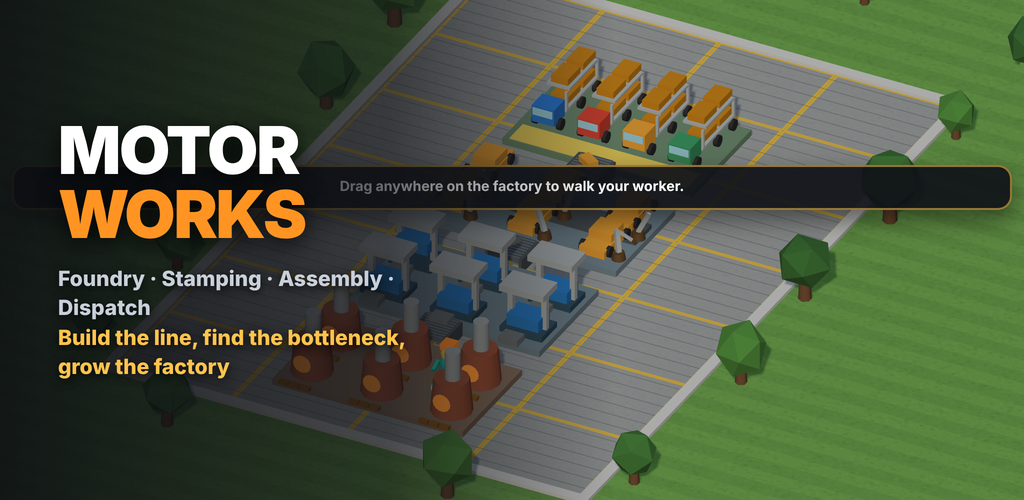
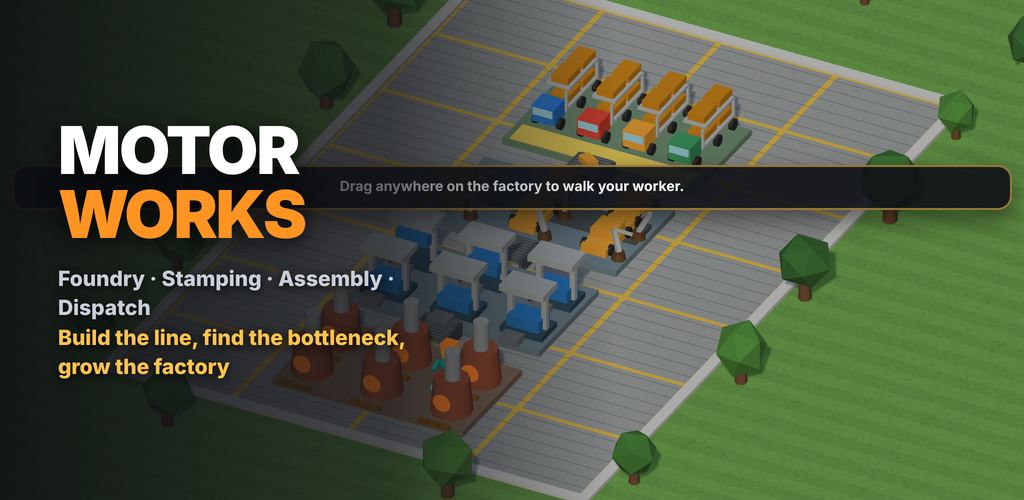
Motor Works: the top two vehicle tiers were unreachable
The panel promises "Sports: all at lv 220" and "Luxury: all at lv 400".
Three hours of simulated play across six prestiges never delivered
either: the run ended at Pickup every time, with levels crawling from
173 to 237 and income flat from minute 20 onward.

Two causes, both measured.

The tier gate reads the weakest station. The game's guidance points at
the bottleneck. They are not the same station, and the gap is a manager
perk: Derya's +25% foundry speed keeps the Foundry off the bottleneck
even 37 levels behind (16000/s against 15168/s). A player doing exactly
what the game says never upgrades it, so it pins at 200 and the gate
never opens. Two of five vehicle models, carrying the x34 and x115 price
multipliers, were dead content.

So the panel now names the station holding the next tier back, in the
product tag ("Sports: Foundry at lv 220") and on that station's own row
("HOLDING BACK Sports"). It appears only when there is something to act
on: not when every station is behind, not when the station is already
marked BOTTLENECK, and not at the top tier.

The hint alone was not enough — measured, it moved the weakest station
from 200 to 216 over four prestiges, still short of 220. The thresholds
themselves were set without reference to the curve, so they are now set
from it: Sports at 175 and Luxury at 240, where the earlier 110 and 45
already sat. All five tiers are reachable, and the top one is what the
[…]

diff --git a/tycoon/index.html b/tycoon/index.html
@@ -664,6 +664,8 @@ const METIN = {
   pr3: ['Sports', 'Spor'],
   pr4: ['Luxury', 'Lüks'],
   nextTier: [' · <b>{0}</b>: all at lv {1}', ' · <b>{0}</b>: hepsi {1}. seviyede'],
+  nextTierOne: [' · <b>{0}</b>: {1} at lv {2}', ' · <b>{0}</b>: {1} {2}. seviyede'],
+  tierHold:    ['<u>HOLDING BACK {0}</u>', '<u>{0} BEKLİYOR</u>'],
   topTier:  [' · top tier', ' · en üst kademe'],
 };
 
@@ -922,8 +924,8 @@ const PRODUCTS = [
   { name: 'City', nameT: 'pr0',     at: 0,   mult: 1,   body: '#3f7de0', roof: '#356ec9', big: 1.00 },
   { name: 'SUV', nameT: 'pr1',      at: 45,  mult: 3.2, body: '#3f9a6a', roof: '#33805a', big: 1.14 },
   { name: 'Pickup', nameT: 'pr2',   at: 110, mult: 10,  body: '#e8a33a', roof: '#c9861e', big: 1.26 },
-  { name: 'Sports', nameT: 'pr3',   at: 220, mult: 34,  body: '#d9483a', roof: '#b93a2e', big: 1.08 },
-  { name: 'Luxury', nameT: 'pr4',   at: 400, mult: 115, body: '#8a52d0', roof: '#7343b3', big: 1.18 },
+  { name: 'Sports', nameT: 'pr3',   at: 175, mult: 34,  body: '#d9483a', roof: '#b93a2e', big: 1.08 },
+  { name: 'Luxury', nameT: 'pr4',   at: 240, mult: 115, body: '#8a52d0', roof: '#7343b3', big: 1.18 },
 ];
 const productTier = () => {
   const weakest = Math.min(...G.lvl);
@@ -932,6 +934,22 @@ const productTier = () => {
   return t;
 };
 const product = () => PRODUCTS[productTier()];
+// Bir sonraki kademeyi hangi istasyonlar tutuyor?
+//
+// Kademe kapısı **en zayıf** istasyona bakıyor, oyunun yönlendirmesi ise
+// darboğaza. İkisi aynı istasyon olmak zorunda değil ve ölçüldü
+// (üç saatlik oyun, altı şube devri): Derya'nın +%25 döküm hızı yeteneği
+// Dökümü 37 seviye geride olmasına rağmen darboğaz olmaktan çıkarıyor,
+// oyuncu hiç yükseltmiyor, Döküm 200'de çakılıyor ve Sports (220) ile
+// Luxury (400) kademeleri **hiç açılmıyor**. Beş araç modelinden ikisi,
+// ×34 ve ×115 çarpanlarıyla birlikte, ölü içerikti.
+//
+// Ekran artık kapıyı tutan istasyonu adıyla söylüyor.
+const tierHolders = () => {
+  const nx = nextProduct();
+  if (!nx) return [];
+  return G.lvl.map((l, i) => (l < nx.at ? i : -1)).filter(i => i >= 0);
+};
 const nextProduct = () => PRODUCTS[productTier() + 1] || null;
 // `paidMult()` satın alınan çifte gelir. Burada çarpılıyor, `rateOf`'ta
 // değil: hız darboğaza ve tampon doluluğuna giriyor, para yalnızca
@@ -2623,6 +2641,7 @@ function buyManager(i) {
 
 function refreshPanel() {
   const ch = chain();
+  const tutanlar = tierHolders();
   for (let i = 0; i < STATIONS.length; i++) {
     const s = STATIONS[i], r = rows[i];
     const n = buyCount(i);
@@ -2652,6 +2671,12 @@ function refreshPanel() {
     // the instruction and it is the one line that is not worth acting on:
     // levelling a station whose output has nowhere to go buys nothing.
     if (nxt && !blocked) bits.push(T('x2at', nxt));
+    // Kademeyi tutan istasyon: darboğaz değilse oyuncunun onu
+    // yükseltmesi için hiçbir sebebi yok ve kapı orada kilitli kalıyor.
+    // Sebep buraya yazılıyor.
+    if (tutanlar.length && tutanlar.length < STATIONS.length &&
+        tutanlar.includes(i) && i !== ch.neck && !blocked)
+      bits.push(T('tierHold', T(nextProduct().nameT)));
     r.meta.innerHTML = bits.join(' · ');
     if (i < LAST) {
       const p = Math.min(100, (G.buf[i] / roomOf(i)) * 100);
@@ -2699,8 +2724,12 @@ function refreshPanel() {
   $('rate').textContent = fmt(olculenHiz) + ' ' + T('perSec');
   $('branchPill').textContent = '🏭 ' + (G.branches + 1);
   const nx = nextProduct();
+  const tut = tierHolders();
   $('prodTag').innerHTML = `🚗 ${T(product().nameT)}` +
-    (nx ? T('nextTier', T(nx.nameT), nx.at) : T('topTier'));
+    (nx ? (tut.length === 1
+            ? T('nextTierOne', T(nx.nameT), T(STATIONS[tut[0]].nameT), nx.at)
+            : T('nextTier', T(nx.nameT), nx.at))
+        : T('topTier'));
 }
 
 // ---------------------------------------------------------------------
@@ -4028,6 +4057,15 @@ window.jeMusBelir = () => { musSayac = 0; return musBelir(); };
 // gidişinde sahneden çıkıyor; sayı yirmi müşteri sonunda da aynı
 // kalmalı. Göz bunu fark etmiyor, sayı fark ediyor.
 window.jeSahne = () => scene.children.length;
+// Kademe kapısı: şu anki kademe, sonraki ve onu tutan istasyonlar.
+// Ekrandaki uyarı da bu listeden çiziliyor, yani ölçüm oyuncunun
+// gördüğü şeyi okuyor.
+window.jeTier = () => {
+  const nx = nextProduct();
+  return { kademe: productTier(), ad: T(product().nameT),
+           sonraki: nx ? T(nx.nameT) : null, esik: nx ? nx.at : null,
+           tutan: tierHolders(), lvl: [...G.lvl] };
+};
 // Çizim yükü. Ucuz bir Android'de kare hızını belirleyen şey bu:
 // kaç çizim çağrısı, kaç üçgen, kaç cisim. Konteynerde GPU yok, o
 // yüzden kare hızı ölçülemiyor — ama bunlar cihazdan bağımsız.
